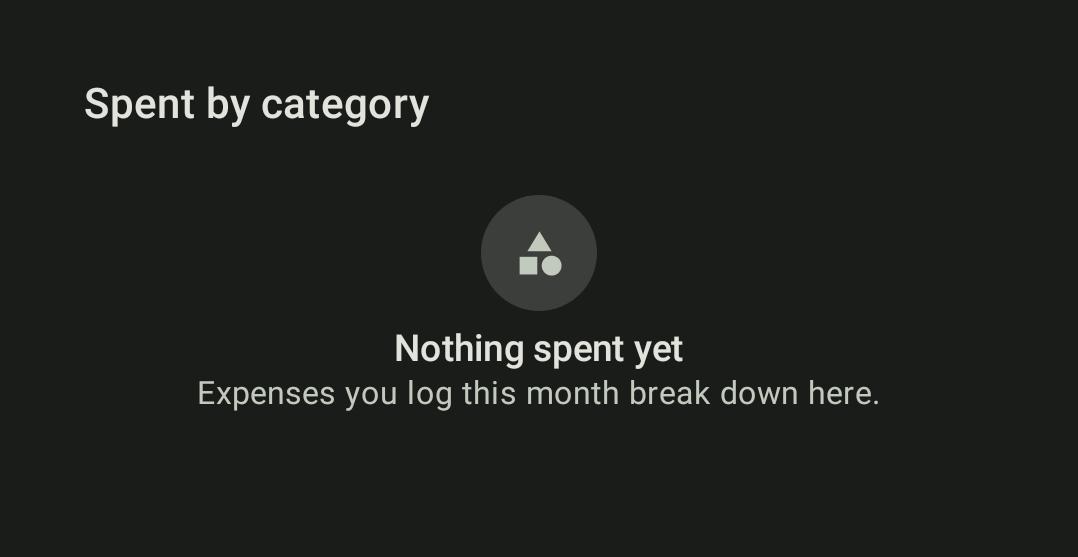
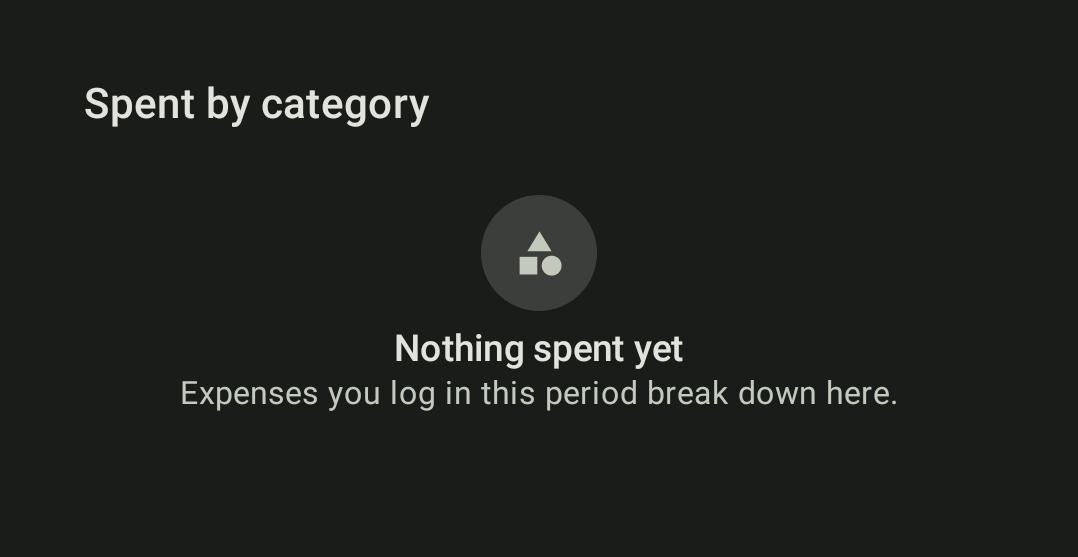
fix(dashboard): finish scoping the spend card to the chosen period
Self-review of the diff after merging #410's Week/Month switch. Wiring the card to
the period left two things behind that the switch made wrong.

A cap only speaks now if it runs on the selected cadence. `capFor` accepted monthly
budgets alone, which was right while the window was always the calendar month; under
Week it measured a week of spend against a month's limit. Spend €430 of a €150
monthly cap by week three with €90 of it this week, and the card drew a comfortable
"€90 of €150" over a budget already €280 past its limit. A category whose only budget
runs on another cadence now shows its spend with no overlay — no state is better than
one the numbers cannot support.

`SpentByCategory` declares `isPeriodScoped = true`. It reads the period, and
`periodSwitchVisible` is derived from that flag: a layout with this card as its only
spend widget hid the switch while the card underneath still followed it.

The copy followed the same oversight. The empty state promised "expenses you log this
month" in both locales, which is false under Week for a period the user can see is a
week, and two KDocs still described the share as a month's.

Changed region(s): [[0.1531, 0.6715, 0.8265, 0.7325]]

diff --git a/domain/src/commonMain/kotlin/com/georgeci/moneysurfer/domain/model/SpentByCategory.kt b/domain/src/commonMain/kotlin/com/georgeci/moneysurfer/domain/model/SpentByCategory.kt
@@ -72,15 +72,17 @@ data class SpentByCategory(
  * (all-categories) budget is the spending envelope above per-category caps, and
  * [resolveCategoryCapCoverage] already excludes both it and archived budgets.
  *
- * **Only monthly caps count.** [slices] covers [window]; a weekly or yearly budget's amount is not
- * a figure for that window, and dividing one into a pro-rata limit would invent a cap the user
- * never set.
+ * **Only caps on [capPeriod]'s cadence count.** [slices] covers [window], so a budget of any other
+ * cadence is not a figure for it: measuring a week of spend against a monthly cap reads as
+ * comfortable headroom right up to the point the month is blown. Dividing one into a pro-rata limit
+ * would invent a cap the user never set, so a category whose only budget runs on another cadence
+ * simply shows no overlay — the spend is still drawn, without a state it cannot honestly claim.
  *
  * **The cap's own window is not this one.** Budget windows are anchored on `Budget.startDate`, so a
- * cap created mid-month runs 15th-to-15th while this breakdown runs the calendar month. Every
- * number *here* is measured over [window] — spend, limit and status alike, so the widget is
- * internally consistent — but a status shown here can differ from the same budget's status on the
- * Budgets screen, which reads the budget's own window and includes its rollover carry.
+ * cap created mid-month runs 15th-to-15th while this breakdown runs a calendar span. Every number
+ * *here* is measured over [window] — spend, limit and status alike, so the widget is internally
+ * consistent — but a status shown here can differ from the same budget's status on the Budgets
+ * screen, which reads the budget's own window and includes its rollover carry.
  */
 fun buildSpentByCategory(
     slices: List<CategorySpendSlice>,
@@ -88,6 +90,7 @@ fun buildSpentByCategory(
     budgets: List<Budget>,
     currency: CurrencyCode,
     window: TransactionPeriodWindow,
+    capPeriod: BudgetPeriod,
 ): SpentByCategory {
     val total = slices.fold(Money.zero()) { acc, slice -> acc + slice.total }
     val byId = categories.associateBy { it.id }
@@ -101,7 +104,7 @@ fun buildSpentByCategory(
                 category = slice.categoryId?.let(byId::get),
                 spent = slice.total,
                 share = shareOf(slice.total, total),
-                cap = capFor(slice, budgets),
+                cap = capFor(slice, budgets, capPeriod),
             )
         }
     return SpentByCategory(entries = entries, total = total, currency = currency, window = window)
@@ -111,10 +114,14 @@ fun buildSpentByCategory(
 private fun shareOf(spent: Money, total: Money): Float =
     if (total.minor <= 0L) 0f else (spent.minor.toFloat() / total.minor.toFloat()).coerceIn(0f, 1f)
 
-private fun capFor(slice: CategorySpendSlice, budgets: List<Budget>): CategoryCap? {
+private fun capFor(
+    slice: CategorySpendSlice,
+    budgets: List<Budget>,
+    capPeriod: BudgetPeriod,
+): CategoryCap? {
     val coverage = resolveCategoryCapCoverage(slice.categoryId, budgets)
     val budget = (coverage as? CategoryCapCoverage.Editable)?.budget ?: return null
-    if (budget.period != BudgetPeriod.MONTHLY) return null
+    if (budget.period != capPeriod) return null
     return CategoryCap(
         limit = budget.amount,
         status = budgetStatusOf(slice.total, budget.amount, budget.alertPercent),

diff --git a/domain/src/commonMain/kotlin/com/georgeci/moneysurfer/domain/usecase/GetCategorySpendUseCase.kt b/domain/src/commonMain/kotlin/com/georgeci/moneysurfer/domain/usecase/GetCategorySpendUseCase.kt
@@ -12,7 +12,6 @@ import com.georgeci.moneysurfer.domain.repositories.BudgetRepository
 import com.georgeci.moneysurfer.domain.repositories.CategoryRepository
 import com.georgeci.moneysurfer.domain.repositories.SpendAnalyticsRepository
 import com.georgeci.moneysurfer.domain.repositories.WorkspaceRepository
-import com.georgeci.moneysurfer.domain.util.TransactionPeriodWindow
 import kotlinx.coroutines.ExperimentalCoroutinesApi
 import kotlinx.coroutines.flow.Flow
 import kotlinx.coroutines.flow.combine
@@ -20,6 +19,7 @@ import kotlinx.coroutines.flow.distinctUntilChanged
 import kotlinx.coroutines.flow.flatMapLatest
 import kotlinx.coroutines.flow.flowOf
 import kotlinx.coroutines.flow.map
+import kotlinx.datetime.LocalDate
 import kotlinx.datetime.TimeZone
 import kotlinx.datetime.toLocalDateTime
 import org.koin.core.annotation.Single
@@ -74,7 +74,7 @@ class GetCategorySpendUseCase(
                     // Re-read on every emission rather than once per workspace: the window is the
                     // period's answer for *today*, and the period is the thing that changes.
                     val today = clock.now().toLocalDateTime(timeZone).date
-                    breakdownOf(workspaceId, currency, chosen.window(today))
+                    breakdownOf(workspaceId, currency, chosen, today)
                 }
         }
 
@@ -96,9 +96,10 @@ class GetCategorySpendUseCase(
     private fun breakdownOf(
         workspaceId: WorkspaceId,
         currency: CurrencyCode,
-        window: TransactionPeriodWindow,
+        period: DashboardPeriod,
+        today: LocalDate,
     ): Flow<SpentByCategory> = combine(
-        spendAnalytics.byCategory(SpendScope(workspaceId, currency, window)),
+        spendAnalytics.byCategory(SpendScope(workspaceId, currency, period.window(today))),
         categoryRepository.getByWorkspaceId(workspaceId),
         budgetRepository.getByWorkspaceId(workspaceId),
     ) { slices, categories, budgets ->
@@ -107,7 +108,10 @@ class GetCategorySpendUseCase(
             categories = categories,
             budgets = budgets,
             currency = currency,
-            window = window,
+            window = period.window(today),
+            // Only a cap on the selected cadence may speak: a monthly limit against a week of
+            // spend would read as headroom until the month is already blown.
+            capPeriod = period.budgetPeriod,
         )
     }
 }

diff --git a/domain/src/commonTest/kotlin/com/georgeci/moneysurfer/domain/model/SpentByCategoryTest.kt b/domain/src/commonTest/kotlin/com/georgeci/moneysurfer/domain/model/SpentByCategoryTest.kt
@@ -26,6 +26,7 @@ private fun slice(categoryId: CategoryId?, total: Money) =
 private fun breakdown(
     slices: List<CategorySpendSlice>,
     budgets: List<Budget> = emptyList(),
+    capPeriod: BudgetPeriod = BudgetPeriod.MONTHLY,
 ): SpentByCategory = buildSpentByCategory(
     slices = slices,
     categories = listOf(
@@ -35,6 +36,7 @@ private fun breakdown(
     budgets = budgets,
     currency = USD,
     window = window,
+    capPeriod = capPeriod,
 )
 
 class SpentByCategoryTest : StringSpec({
@@ -148,7 +150,7 @@ class SpentByCategoryTest : StringSpec({
         result.entries.single().cap.shouldBeNull()
     }
 
-    "a weekly budget's amount is not a figure for this window, so it caps nothing here" {
+    "a budget on another cadence is not a figure for this window, so it caps nothing here" {
         val result = breakdown(
             slices = listOf(slice(groceries, 40.dollars)),
             budgets = listOf(
@@ -161,6 +163,20 @@ class SpentByCategoryTest : StringSpec({
         )
 
         result.entries.single().cap.shouldBeNull()
+    }
+
+    "under a weekly period it is the weekly cap that speaks, and the monthly one that does not" {
+        val weekly = aBudget(
+            categoryIds = listOf(groceries),
+            amount = 100.dollars,
+            period = BudgetPeriod.WEEKLY,
+        )
+
+        // The same spend, read at the two cadences: each may only be judged by its own.
+        breakdown(listOf(slice(groceries, 40.dollars)), listOf(weekly), BudgetPeriod.WEEKLY)
+            .entries.single().cap?.limit shouldBe 100.dollars
+        breakdown(listOf(slice(groceries, 40.dollars)), listOf(weekly), BudgetPeriod.MONTHLY)
+            .entries.single().cap.shouldBeNull()
     }
 
     "a zero cap reads as no progress rather than a divide by zero" {

diff --git a/feature/dashboard/src/commonMain/kotlin/com/georgeci/moneysurfer/feature/dashboard/DashboardViewModel.kt b/feature/dashboard/src/commonMain/kotlin/com/georgeci/moneysurfer/feature/dashboard/DashboardViewModel.kt
@@ -386,7 +386,7 @@ sealed interface DashboardState {
         /** The active budgets worth a row, most pressing first — empty when none are tracked. */
         val budgets: List<BudgetSummaryUi> = emptyList(),
         /**
-         * Where this month's money went, largest spender first — empty while the month holds no
+         * Where the selected period's money went, largest spender first — empty while it holds no
          * spend, which is the spent-by-category widget's own empty state rather than a missing one.
          */
         val spentByCategory: List<CategorySpendUi> = emptyList(),
@@ -569,7 +569,7 @@ data class CategorySpendUi(
     /** The category's stored hue, or null for the bucket that has no stored appearance. */
     val hue: Int?,
     val spentFormatted: String,
-    /** Share of the month's total spend, `0f..1f`. */
+    /** Share of the selected period's total spend, `0f..1f`. */
     val share: Float,
     /** The cap on this category, or null while nothing caps it. */
     val cap: CategoryCapUi? = null,

diff --git a/feature/dashboard/src/commonMain/kotlin/com/georgeci/moneysurfer/feature/dashboard/DashboardSpentByCategoryWidget.kt b/feature/dashboard/src/commonMain/kotlin/com/georgeci/moneysurfer/feature/dashboard/DashboardSpentByCategoryWidget.kt
@@ -26,11 +26,11 @@ import moneysurfer.feature.dashboard.generated.resources.dashboard_spent_by_cate
 import org.jetbrains.compose.resources.stringResource
 
 /**
- * Where this month's money went, category by category, in whichever of the five treatments the
- * card style names.
+ * Where the selected period's money went, category by category, in whichever of the five
+ * treatments the card style names.
  *
- * Like safe-to-spend this one keeps drawing with nothing behind it: a month with no expenses yet is
- * a state the widget is *for*, not a reason to leave a gap in the column.
+ * Like safe-to-spend this one keeps drawing with nothing behind it: a period with no expenses yet
+ * is a state the widget is *for*, not a reason to leave a gap in the column.
  */
 @Composable
 internal fun SpentByCategoryWidget(state: DashboardState.Content, variant: String?) {

diff --git a/uikit/src/androidHostTest/kotlin/com/georgeci/moneysurfer/uikit/screenshot/SurferWidgetScreenshotTest.kt b/uikit/src/androidHostTest/kotlin/com/georgeci/moneysurfer/uikit/screenshot/SurferWidgetScreenshotTest.kt
@@ -323,7 +323,7 @@ class SurferWidgetScreenshotTest {
                     modifier = Modifier.fillMaxWidth().height(WidgetEmptyStateHeight),
                     empty = SurferSpentByCategoryEmpty(
                         title = "Nothing spent yet",
-                        subtitle = "Expenses you log this month break down here.",
+                        subtitle = "Expenses you log in this period break down here.",
                     ),
                 )
             }

diff --git a/domain/src/commonMain/kotlin/com/georgeci/moneysurfer/domain/dashboard/DashboardWidgetType.kt b/domain/src/commonMain/kotlin/com/georgeci/moneysurfer/domain/dashboard/DashboardWidgetType.kt
@@ -29,7 +29,7 @@ enum class DashboardWidgetType(val isPeriodScoped: Boolean = false) {
      */
     BurnRate,
     Budgets,
-    SpentByCategory,
+    SpentByCategory(isPeriodScoped = true),
     Accounts,
 
     /**
